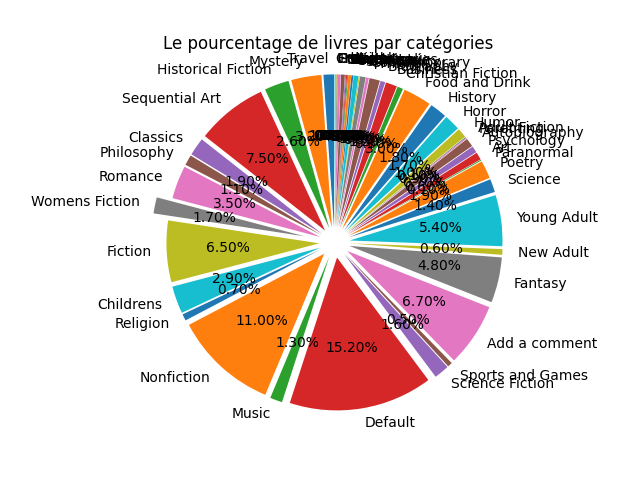
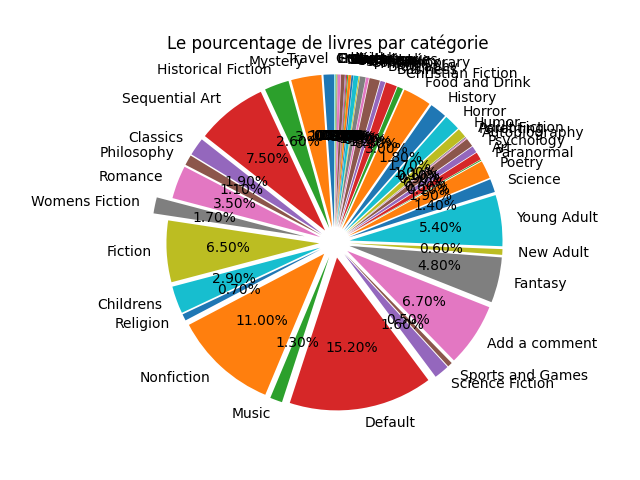
Génération de fichier pdf contenant les graphiques précédemment produits

Changed region(s): [[0.25, 0.0625, 0.7812, 0.125]]

diff --git a/reportLab_pdf.py b/reportLab_pdf.py
@@ -1,0 +1,66 @@
+import matplotlib.pyplot as plt
+import numpy as np
+from reportlab.pdfgen import canvas
+from reportlab.lib.pagesizes import letter
+from reportlab.lib.utils import ImageReader
+from matplotlib_graph import graphique1
+from matplotlib_graph import graphique2
+
+def draw_limited_string(c, text, y, max_width, x=50, font="Helvetica", font_size=12):
+    c.setFont(font, font_size)
+    words = text.split(' ')
+    line = ''
+    
+    for word in words:
+        # Calculer la largeur de la ligne avec le nouveau mot ajouté
+        test_line = f"{line} {word}".strip()
+        if c.stringWidth(test_line, font, font_size) <= max_width:
+            line = test_line
+        else:
+            # Dessiner la ligne précédente et recommencer
+            c.drawString(x, y, line)
+            y -= font_size + 2  # Espacement entre les lignes
+            line = word  # Commencer une nouvelle ligne avec le mot courant
+            
+    # Dessiner la dernière ligne
+    if line:
+        c.drawString(x, y, line)
+
+
+
+pdf_path = "./rapport_graphiques.pdf" 
+
+c = canvas.Canvas(pdf_path, pagesize=letter)
+c.setFont("Helvetica-Bold", 16)
+c.drawString(150, 750,"Rapport des prix des livres d'occasion")
+
+description_text2 = ("Le diagramme présentant la moyenne des livres par catégorie offre une vue d'ensemble des différents genres littéraires et de leur popularité relative en termes de nombre de titres disponibles. Chaque catégorie, qu'il s'agisse de romans, de science-fiction, de biographies ou d'autres genres, est représentée de manière distincte, ce qui permet d'identifier facilement les segments où l'offre est la plus importante. Ce visuel aide non seulement à comprendre la diversité des livres, mais également à analyser les tendances du marché de l'édition, en mettant en lumière les catégories qui attirent le plus l'attention des lecteurs.")
+
+image2 = ImageReader(graphique2)
+c.setFont("Helvetica-Bold", 12)
+c.drawString(50, 700, "Le prix moyen des livres par catégorie (Graphique 1)")
+c.setFont("Helvetica", 8)
+draw_limited_string(c, description_text2, 680, max_width=500)
+c.drawImage(image2, 50, 280, width=500, height=300)
+
+c.showPage()
+
+description_text1 = "Le graphique en barre illustrant la moyenne des prix des livres par catégorie fournit une perspective précieuse sur les variations de prix entre les différents genres littéraires. Les barres, colorées de manière à distinguer chaque catégorie, montrent clairement les différences significatives des prix moyens, permettant ainsi aux lecteurs de mieux comprendre le positionnement économique de chaque type de livre. Par exemple, on peut observer que certains genres, comme les manuels scolaires ou les livres spécialisés, affichent des prix plus élevés en moyenne, tandis que d'autres, comme les romans de fiction générale, tendent à être plus abordables. Ce graphique aide les acheteurs potentiels à évaluer leurs options et à faire des choix éclairés en fonction de leur budget et de leurs préférences littéraires."
+
+image1 = ImageReader(graphique1)
+c.setFont("Helvetica-Bold", 12)
+c.drawString(50, 700, "Le pourcentage de livres par catégories (Graphique )") 
+c.setFont("Helvetica", 8)
+draw_limited_string(c, description_text1, 680, max_width=500)
+c.drawImage(image1, 50, 280, width=500, height=300)
+
+
+
+c.showPage()
+c.save()
+
+
+
+
+
+# print(f"PDF généré avec succès : {pdf_path}")

diff --git a/matplotlib_graph.py b/matplotlib_graph.py
@@ -44,12 +44,12 @@ with open('books_categories.csv', 'r' , encoding='utf-8') as file :
         for category_price, price in sum_price.items() : 
             if category_price == category : 
                 middle_price[category_price] = round(price/count, 2)
-    print(middle_price)
+    # print(middle_price)
 
     # ////////////////////////////////// Affichage du diagramme circulaire ///////////////////////////////
     explode = [.2 if category == 'Womens Fiction' else .1 for category in category_counts_percent.keys()]
-    print(category_counts_percent)
-    plt.title("Le pourcentage de livres par catégories")
+    # print(category_counts_percent)
+    plt.title("Le pourcentage de livres par catégorie")
     plt.pie(
         category_counts_percent.values(), 
         labels = category_counts_percent.keys(),

diff --git a/README.md b/README.md
@@ -18,4 +18,5 @@
 - expliquer que les 3 premières étapes je les ai faite dans le fichoer render et le reste dans un autre fichier
 - gestions des dossier, si un dossier contient déjà les images ne plus les mettres ou les supprimer et les remettre à voir 
 - supprimer les print dans tous les fichiers
+- mettre tous les fichiers générés dans le gitignore
 
